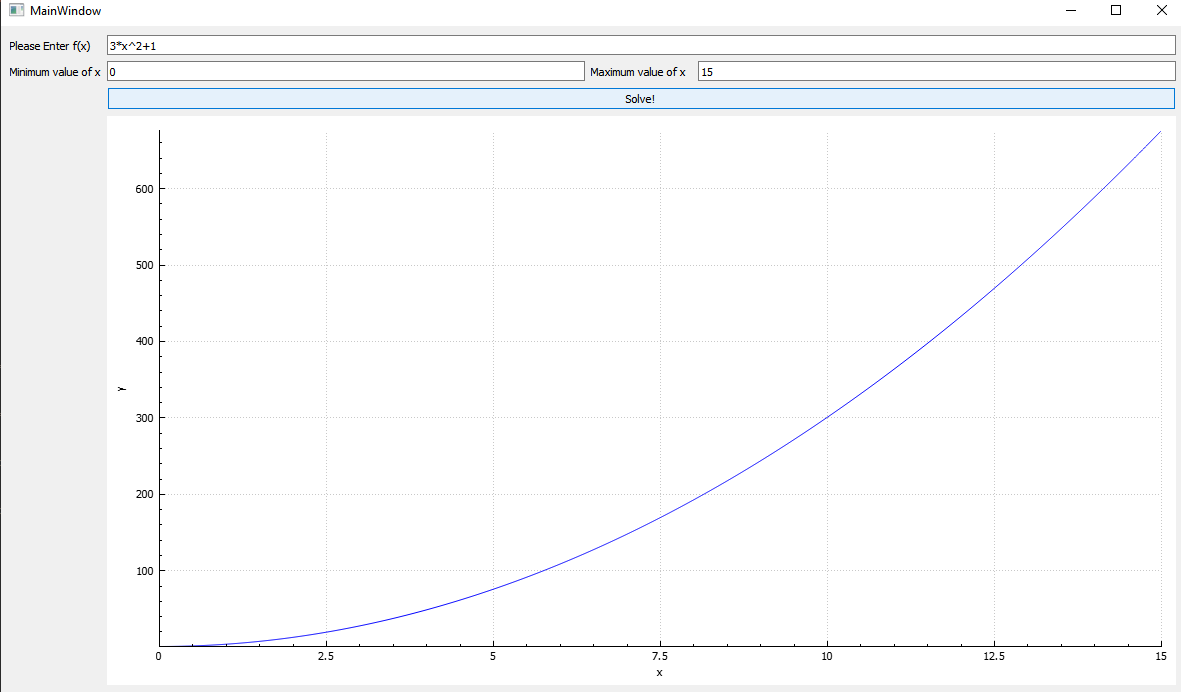
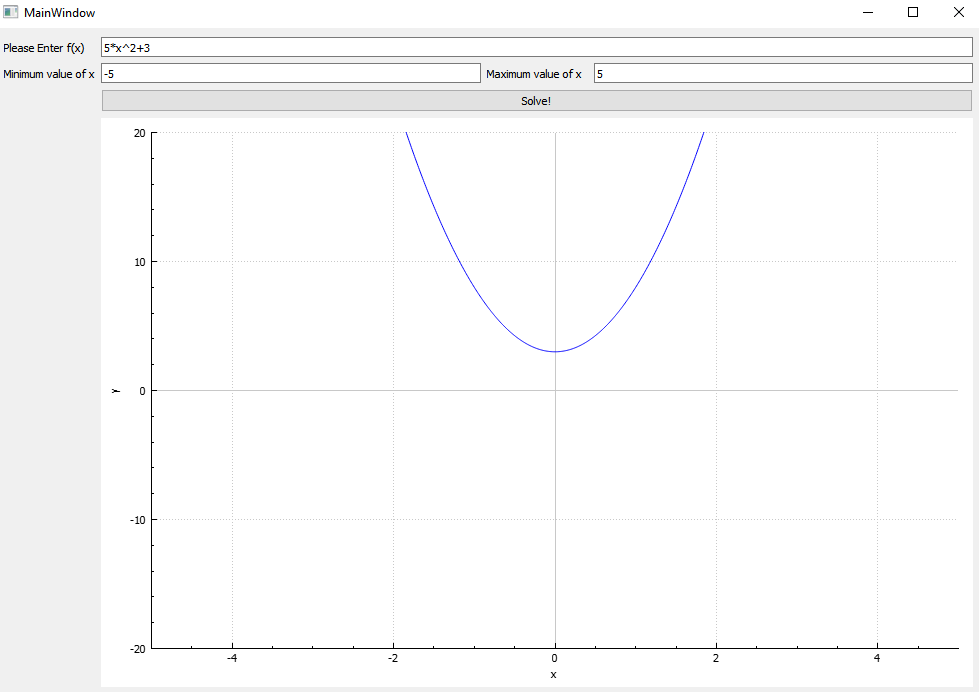
fixing bugs

diff --git a/FunctionPlotterFunctions.cpp b/FunctionPlotterFunctions.cpp
@@ -61,8 +61,29 @@ std::queue<std::string> postfix (std::string equation){
     for(int i=0; i<equation.size(); i++){
         // operand
         if(isOperand(std::string(1,equation[i]))){
-            postfix.push(number);
+            //fake operand
+            if((i==0) || (i==equation.size()-1)){
+                if(equation[i]=='-' && i==0){
+                    number+=equation[i];
+                }
+                continue;
+            }
+            if(number.size()>0){
+                postfix.push(number);
+            }
+
             number="";
+
+
+            //detecting redundant operands and -ve sign
+
+            if(isOperand(std::string(1,equation[i-1]))){
+                if((equation[i]=='-') && !isOperand(std::string(1,equation[i+1]))){
+                    number+=equation[i];
+                }
+                continue;
+            }
+
 
             //stack is empty
             if(operandStack.empty()){
@@ -93,7 +114,6 @@ std::queue<std::string> postfix (std::string equation){
         operandStack.pop();
     }
     return postfix;
-
 
 }
 

diff --git a/mainwindow.cpp b/mainwindow.cpp
@@ -56,7 +56,7 @@ void MainWindow::on_Solve_clicked()
         yValues.push_back(tempY);
 
     }
-
+    ui->customPlot->replot();
     MainWindow::makePlot(xValues, yValues);
 
     //double num= equationSolver(postfix(replacer(equation,maximum)));
@@ -83,7 +83,7 @@ void MainWindow::makePlot(QVector<double> xValues , QVector<double>yValues){
     ui->customPlot->yAxis->setLabel("y");
     // set axes ranges, so we see all data:
     ui->customPlot->xAxis->setRange(xValues[0], xValues[xValues.size()-1]);
-    ui->customPlot->yAxis->setRange(yValues[0], yValues[yValues.size()-1]);
+    ui->customPlot->yAxis->setRange(-20, 20);
     ui->customPlot->replot();
 
 }
